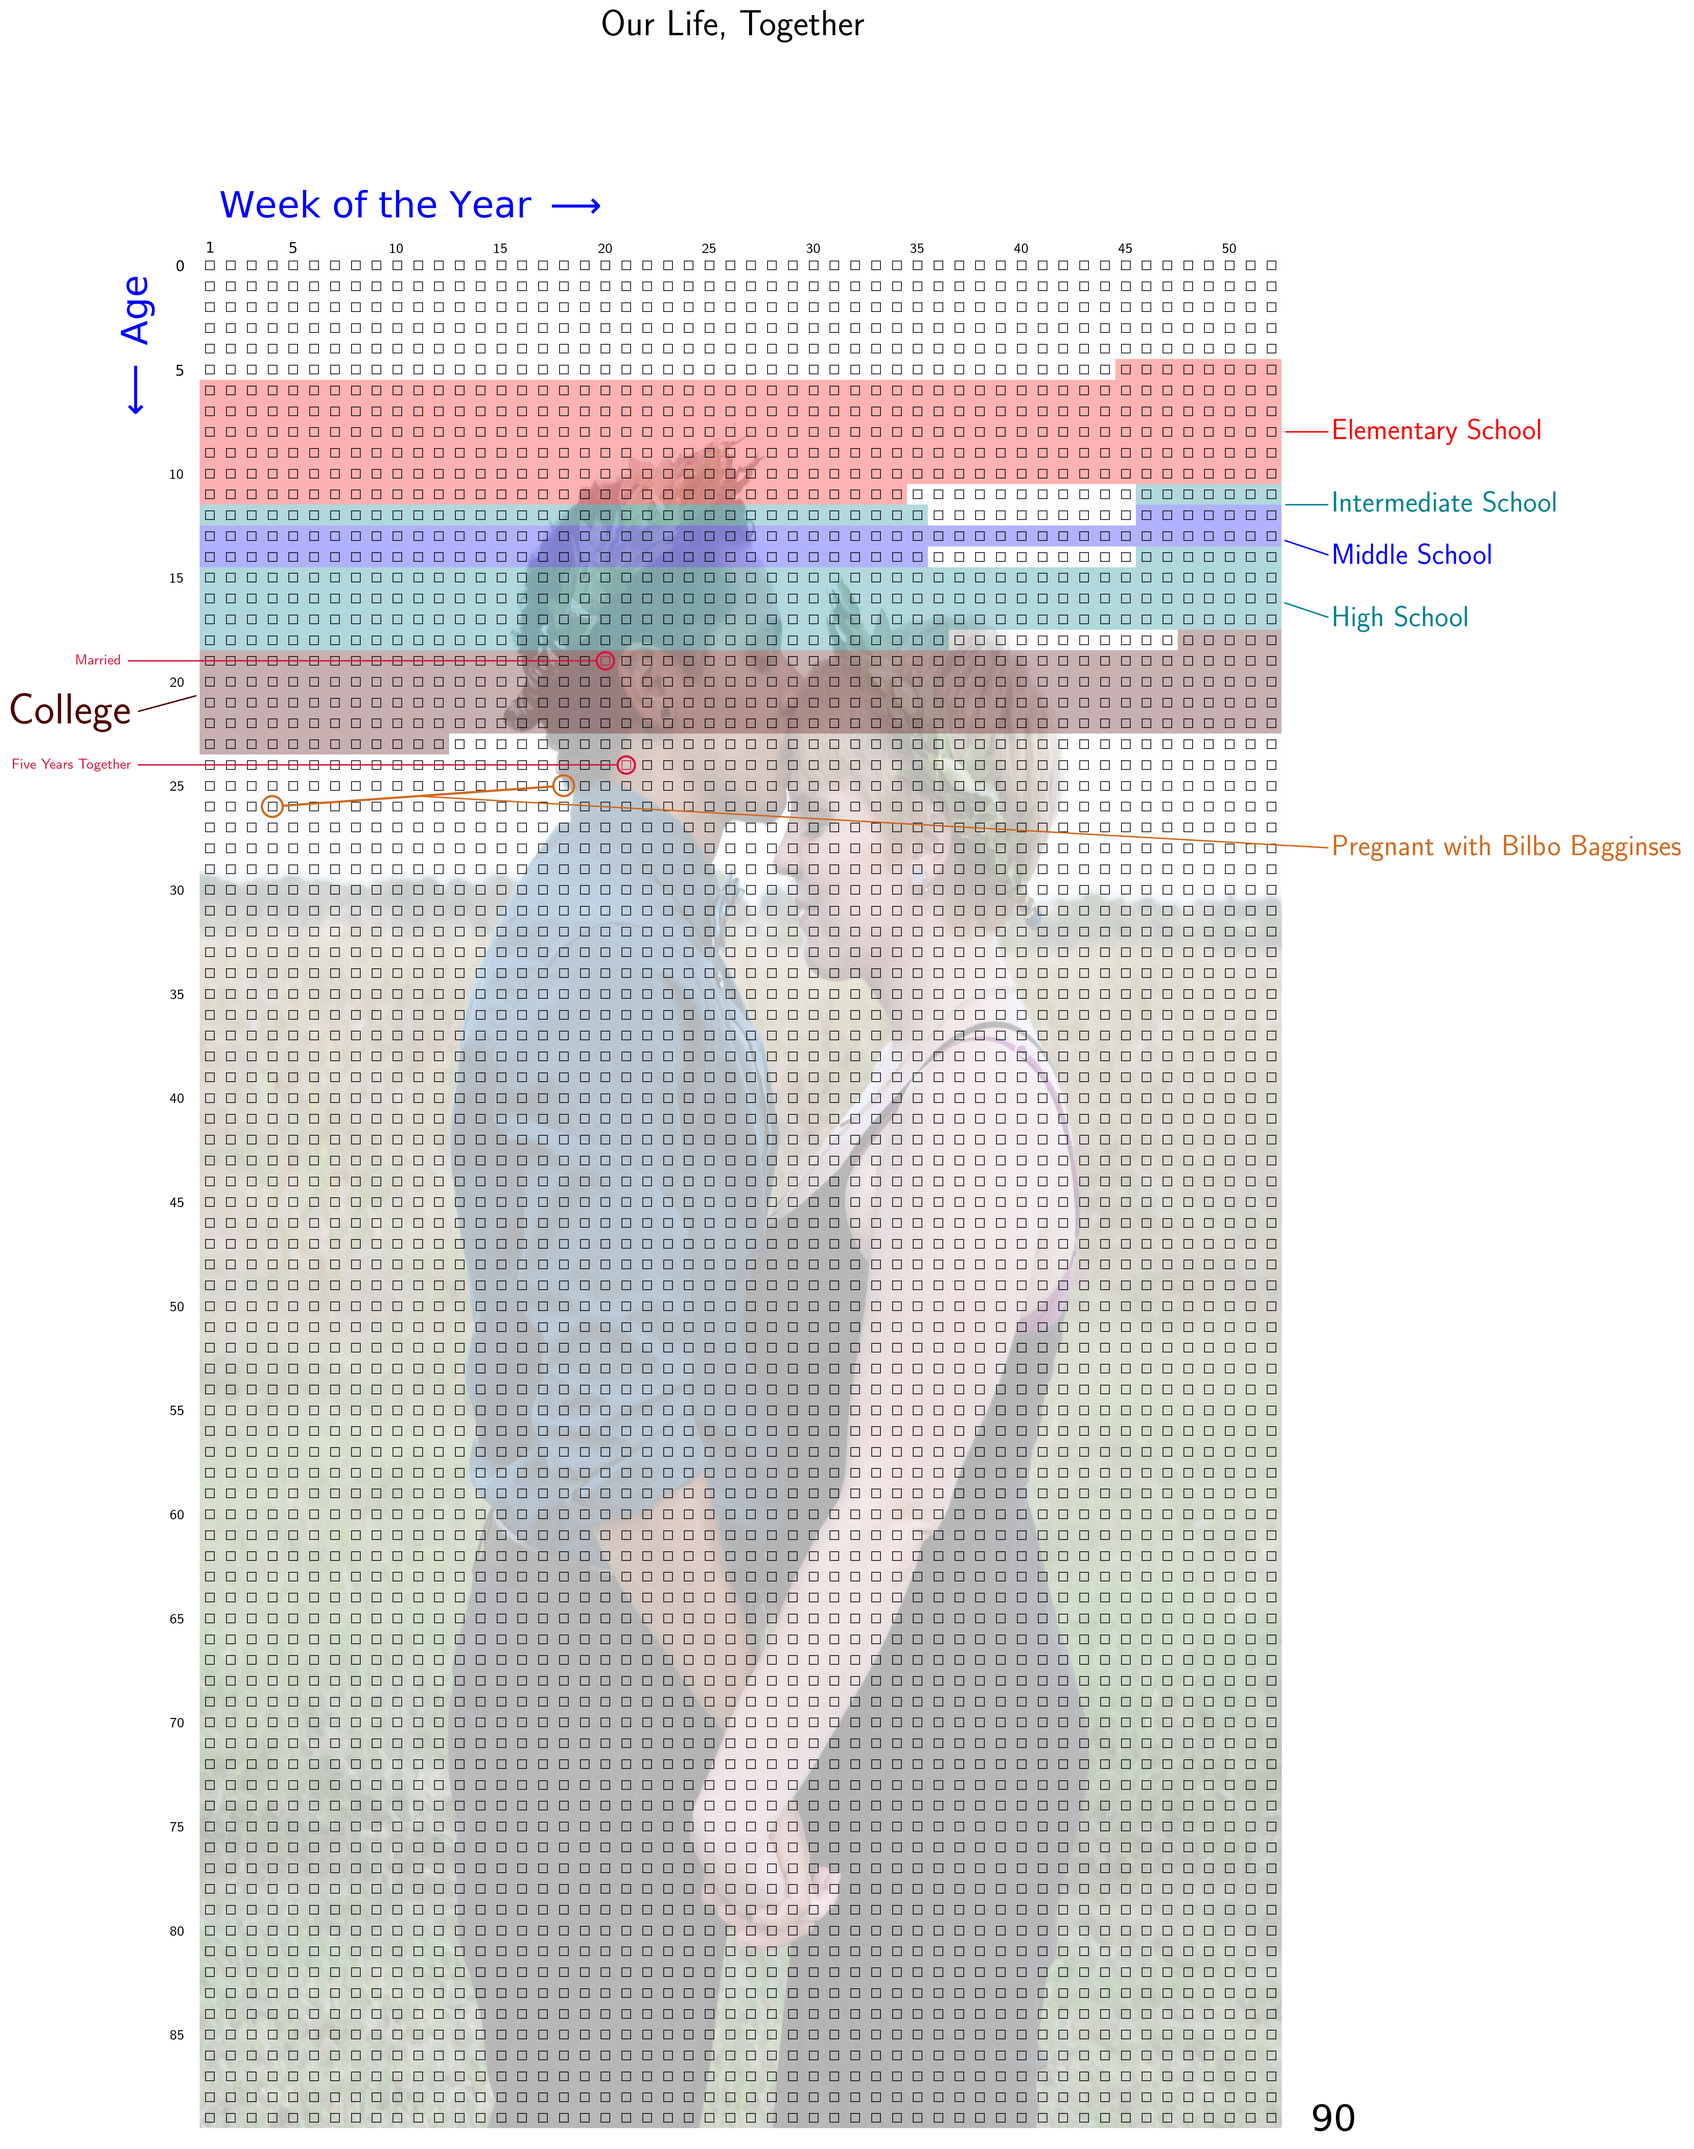
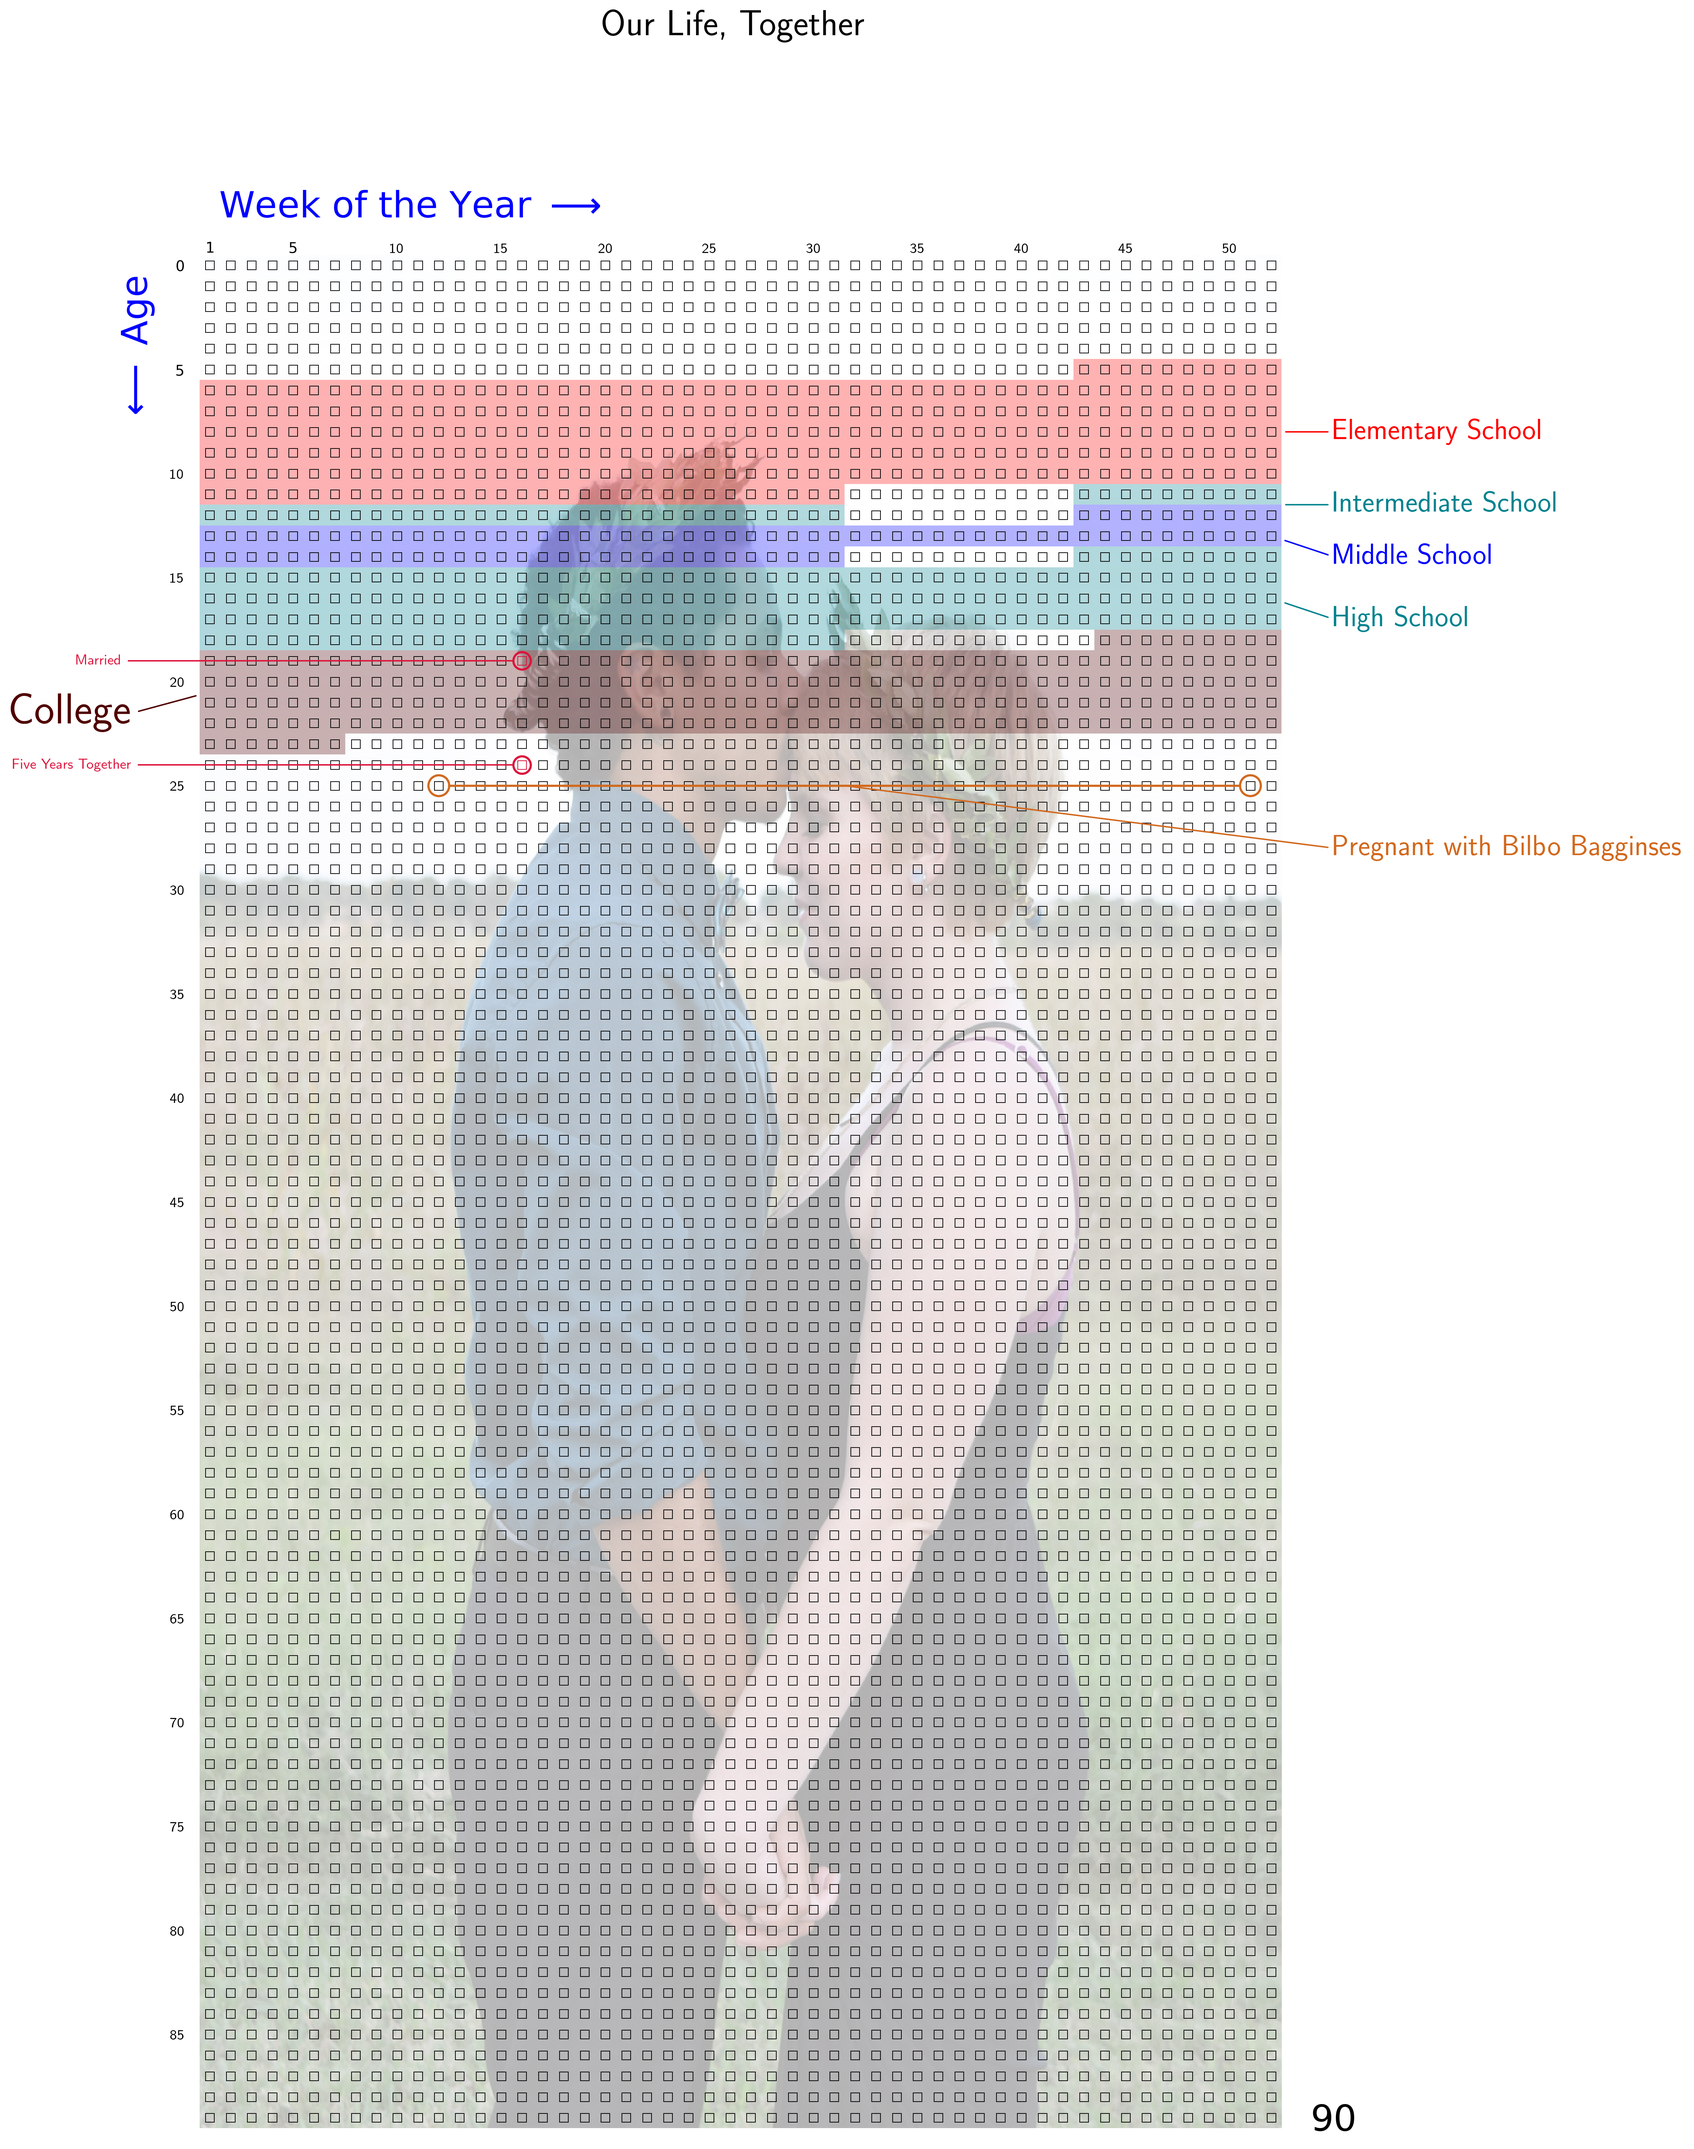
removing unused class parameters, fixing annotation conflicts, making color optional

diff --git a/lifegraph/lifegraph.py b/lifegraph/lifegraph.py
@@ -10,6 +10,7 @@ import logging
 from matplotlib.transforms import Bbox
 from matplotlib import colors as mcolors
 from datetime import date
+from dateutil import rrule
 from dateutil.relativedelta import relativedelta
 from enum import Enum
 
@@ -61,28 +62,24 @@ class Point:
 class DatePosition(Point):
     """A class to hold the week, year of life, and date assocaited with a Point"""
 
-    def __init__(self, x, y, week, year_of_life, date):
+    def __init__(self, x, y, date):
         """
 
         :param x: 
         :param y: 
-        :param week: 
-        :param year_of_life: 
         :param date: 
 
         """
         super().__init__(x, y)
-        self.week = week
-        self.year_of_life = year_of_life
         self.date = date
 
     def __repr__(self):
         """ """
-        return f"DatePosition: year({self.year_of_life}), week({self.week}), date({self.date}) at point {super().__repr__()}"
+        return f"DatePosition: year({self.y}), week({self.x}), date({self.date}) at point {super().__repr__()}"
 
     def __str__(self):
         """ """
-        return f"DatePosition: year({self.year_of_life}), week({self.week}), date({self.date}) at point {super().__repr__()}"
+        return f"DatePosition: year({self.y}), week({self.x}), date({self.date}) at point {super().__repr__()}"
 
 
 class Marker(Point):
@@ -426,7 +423,7 @@ class Lifegraph:
                      fontsize=self.fontsize, color='black',
                      ha='center', va='bottom', transform=self.ax.transData)
 
-    def add_life_event(self, text, date, color, hint=None, side=None, color_square=True):
+    def add_life_event(self, text, date, color=None, hint=None, side=None, color_square=True):
         """ Label an event in your life
 
         :param text: param date: The date that the event occurred
@@ -443,6 +440,9 @@ class Lifegraph:
                 f"The event date must be a valid datetime.date object that is at least as recent as the birthdate and no larger than {self.ymax}")
 
         position = self.__to_date_position(date)
+
+        if color is None:
+            color = random_color()
 
         default_x = self.xmax if (position.x >= self.xmax / 2) else 0
         label_point = self.__get_label_point(hint, side, default_x, position.y)
@@ -771,7 +771,11 @@ class Lifegraph:
                 a.set_relpos((0.5, 1))
                 right.append(a)
 
-        left.sort(key=lambda a: a.date)
+        # for the left, we want to prioritze labels
+        # with lower x values to minimize the crossover of annotation lines
+        # for the right, we want to prioritize labels that are closer
+        # to the right side of the graph to minimuze the crossover of annotation lines 
+        left.sort(key=lambda a: (a.event_point.y, a.event_point.x))
         right.sort(key=lambda a: (a.event_point.y, -a.event_point.x))
 
         final = []
@@ -797,11 +801,34 @@ class Lifegraph:
         :param date: 
 
         """
-        week = int(np.floor((date - self.birthdate).days / 7)) + 1
+        delta = date - self.birthdate
+
+        year = delta.days // 365
+        # Assume the start of the year for each year of your life is your birthdate
+        # something that happens within on or up to (not including) 7 days after the start
+        # of the year happens in the first week of your life that year
+        # Using this logic, your birthday will always happen on week 1 of each year
+        start_of_year = self.birthdate + relativedelta(years=year)
+        diff = date - start_of_year
+        week = diff.days // 7
+
         x = week % self.xmax + 1
-        y = int(np.floor(week / self.xmax))
-        year_of_life = y
-        return DatePosition(x, y, week, year_of_life, date)
+
+        return DatePosition(x, year, date)
+    
+    def __leap_years_before(self, date):
+        year = date.year
+        return year // 4 - year // 100 + year // 400
+    
+    def __is_leap_year(self, date):
+        # https://docs.microsoft.com/en-us/office/troubleshoot/excel/determine-a-leap-year
+        if date.year % 4 == 0:
+            if date.year % 100 == 0:
+                if date.year % 400 == 0:
+                    return True
+            else:
+                return False
+        return False
 
     def __sanitize_hint(self, hint):
         """Hints should have an x value < 0 or bigger than self.xmax

diff --git a/examples/example.py b/examples/example.py
@@ -1,7 +1,7 @@
 import sys, os
 sys.path.append(os.path.abspath(os.path.join(os.path.dirname(__file__), '..')))
 from lifegraph.lifegraph import Lifegraph, Papersize, random_color, Point, Side
-from datetime import date, datetime
+from datetime import date, datetime, timedelta
 
 def main():
     print (os.getcwd())
@@ -11,7 +11,7 @@ def main():
     g.add_life_event('Married', date(2010, 2, 14), '#DC143C')
     g.add_life_event('Five Years Together', date(2015, 2, 14), '#DC143C')
 
-    #g.add_watermark("Kyle Shores")
+    # g.add_watermark("A Person")
 
     g.add_era("Elementary School", date(1996, 8, 24), date(2002, 6, 5), 'r')
     g.add_era("Intermediate School", date(2002, 8, 24), date(2003, 6, 5), '#00838f')
